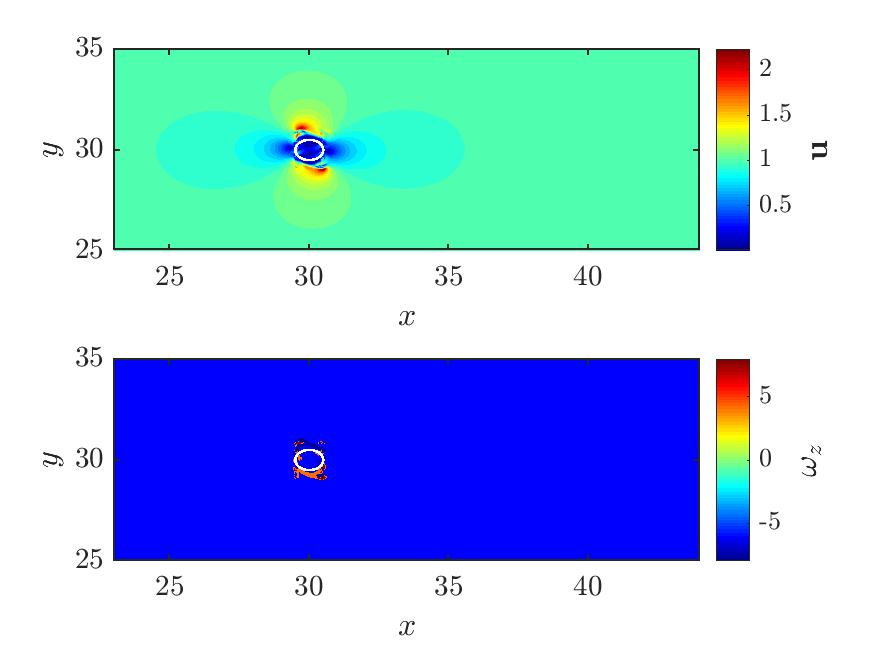
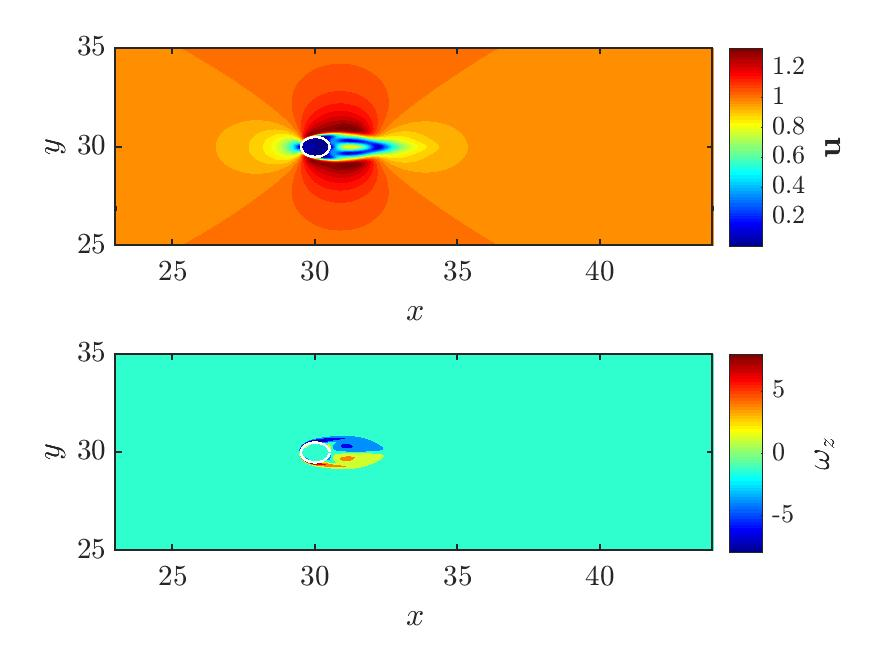
Fixed issue with delta function. The code apparently works properly now!

diff --git a/Ehat.m b/Ehat.m
@@ -1,26 +1,62 @@
 function E = Ehat(grid, ib, Nx, Ny)
 
+
     %% u-velocity
-    r.x = reshape(grid.xu, 1, []) - ib.xi;
-    r.y = reshape(grid.yu, 1, []) - ib.eta;
+%     r.x = reshape(grid.X - ib.xi, [], 1);
+%     r.y = reshape(grid.Y - ib.eta, [], 1);
+
+for i = 1:length(ib.xi)
     
-    dr.x = repmat(grid.dX', [1,Ny-1]);
-    dr.y = repmat(grid.dYu, [1,Nx]);
+    %% u-velocity
+    
+    
+%     r.x = reshape(grid.xv, 1, []) - ib.xi(i);
+%     r.y = reshape(grid.yv, 1, []) - ib.eta(i);
+
+    r.x = grid.xu - ib.xi(i);
+    r.y = grid.yu - ib.eta(i);
+
+    
+    dr.x = repmat(grid.dXv, Nx, 1);
+    dr.y = repmat(grid.dY', Ny-1, 1)';
+
+%     dr.x = repmat(grid.dX, [1,numel(ib.xi)]);
+%     dr.y = repmat(grid.dY, [1,numel(ib.xi)]);
     
     alpha.u = dr.x.*dr.y;
 
-    E.u = alpha.u.*delta(r.x, dr.x).*delta(r.y, dr.y);
-
-    %% v-velocity
-    r.x = reshape(grid.xv, 1, []) - ib.xi;
-    r.y = reshape(grid.yv, 1, []) - ib.eta;
+    E.u(i,:) = reshape(alpha.u.*delta(r.x, dr.x).*delta(r.y, dr.y),[], 1);
     
-    dr.x = repmat(grid.dXv', [Ny,1])';
-    dr.y = repmat(grid.dY, [Nx-1,1])';
+    %% v-velocity
+
+    r.x = grid.xv - ib.xi(i);
+    r.y = grid.yv - ib.eta(i);
+    
+    dr.x = repmat(grid.dX', Nx-1, 1);
+    dr.y = repmat(grid.dYu, Ny, 1)';
+
+%     dr.x = repmat(grid.dX, [1,numel(ib.xi)]);
+%     dr.y = repmat(grid.dY, [1,numel(ib.xi)]);
     
     alpha.v = dr.x.*dr.y;
 
-    E.v = alpha.v.*delta(r.x, dr.x).*delta(r.y, dr.y);
+    E.v(i,:) = reshape(alpha.v.*delta(r.x, dr.x).*delta(r.y, dr.y),[], 1);
+    
+
+end
+    
+    %% v-velocity
+%     r.x = reshape(grid.xv, 1, []) - ib.xi;
+%     r.y = reshape(grid.yv, 1, []) - ib.eta;
+%     
+%     dr.x = repmat(grid.dXv', [Ny,1])';
+%     dr.y = repmat(grid.dY, [Nx-1,1])';
+%     
+%     alpha.v = dr.x.*dr.y;
+% 
+%     E.v = alpha.v.*delta(r.x, dr.x).*delta(r.y, dr.y);
+    
+
 
 end
 

diff --git a/main.m b/main.m
@@ -23,7 +23,7 @@ if ~exist('./matrixStuff.mat', 'file')
     x0 = 0.8;
     Lx = 60;
     Ly = 60;
-    tSave = 1;
+    tSave = 10;
     CFL = 0.4;
     
     %% Staggered Grid Generation
@@ -147,7 +147,6 @@ else
     
 end
 
-
 %% Simulation
 u = reshape(u, [], 1);
 v = reshape(v, [], 1);
@@ -156,7 +155,7 @@ uOld = u;
 vOld = v;
 
 t0 = 0;
-tf = 5;
+tf = 180;
 t = t0:dt:tf;
 
 % Preallocation for effieciency
@@ -363,7 +362,6 @@ c.Label.String = '$\mathbf{u}$';
 c.Label.FontSize = 16;
 % saveas(fig, 'cylinder_Re100', 'jpeg');
 
-%%
 vorticity = computeVorticity(ua, va, grid);
 subplot(212)
 contourf(grid.x, grid.y, vorticity, 16,...
@@ -386,6 +384,7 @@ saveas(fig, 'cylinder_Re100', 'jpeg');
 figure,
 plot(t, -2*f.y, t, -2*f.x)
 ylim([-0.5 5])
+xlim([0 3.5])
 xlabel('$\tau$')
 legend('$C_L$', '$C_D$', 'interpreter', 'latex')
 
